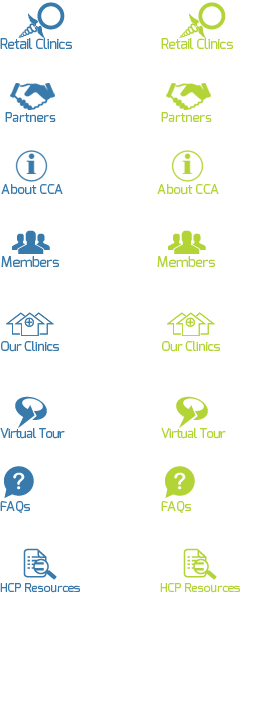
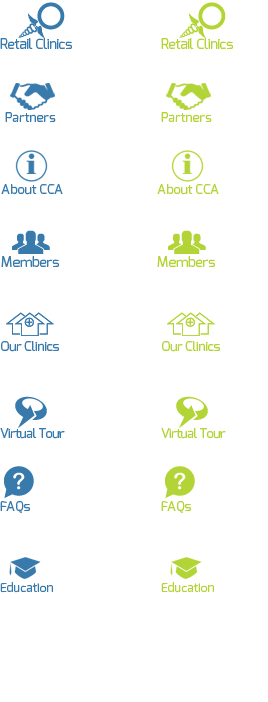
webinars to education

Changed region(s): [[0.0, 0.7778, 0.2985, 0.8675], [0.597, 0.7778, 0.8955, 0.8675]]

diff --git a/CCAMobileNewBuild/www/js/ajaxcalls.js b/CCAMobileNewBuild/www/js/ajaxcalls.js
@@ -77,7 +77,7 @@ function loadClinics(target){
     $("#faqsTab").removeClass("active");
     $("#aboutClinicsTab").removeClass("active");    
     $("#virtualTourTab").removeClass("active");
-    $("#webinarsTab").removeClass("active");
+    $("#educationTab").removeClass("active");
     
     $("#clinics_Map_Switch").removeAttr('checked');
     $("#clinics_List_Switch").removeAttr('checked');
@@ -276,7 +276,7 @@ function loadPartners(){
     $("#faqsTab").removeClass("active");
     $("#aboutClinicsTab").removeClass("active");    
     $("#virtualTourTab").removeClass("active");
-    $("#webinarsTab").removeClass("active");
+    $("#educationTab").removeClass("active");
     
     ajaxRequest("getPartners", "", loadPartnersResponseHandler);
 }
@@ -316,7 +316,7 @@ function loadAboutCCA(){
     $("#faqsTab").removeClass("active");
     $("#aboutClinicsTab").removeClass("active");    
     $("#virtualTourTab").removeClass("active");
-    $("#webinarsTab").removeClass("active");
+    $("#educationTab").removeClass("active");
     
     
     ajaxRequest("getAboutUs", "deviceAgent="+deviceAgent, loadAboutCCAResponseHandler);
@@ -365,7 +365,7 @@ function loadHomePageResponseHandler(loadHomePageResponse){
             $("#faqsTab").removeClass("active");
             $("#aboutClinicsTab").removeClass("active");    
             $("#virtualTourTab").removeClass("active");
-            $("#webinarsTab").removeClass("active");
+            $("#educationTab").removeClass("active");
             
             scrollToTop();
             refreshBodyScroll();
@@ -391,7 +391,7 @@ function loadAboutOurClinics(){
     $("#faqsTab").removeClass("active");
     $("#aboutClinicsTab").addClass("active");    
     $("#virtualTourTab").removeClass("active");
-    $("#webinarsTab").removeClass("active");
+    $("#educationTab").removeClass("active");
     
     ajaxRequest("getAboutOurClinics", "deviceAgent="+deviceAgent, loadAboutOurClinicsResponseHandler);
 }
@@ -429,7 +429,7 @@ function loadFAQs(){
     $("#faqsTab").addClass("active");
     $("#aboutClinicsTab").removeClass("active");    
     $("#virtualTourTab").removeClass("active");
-    $("#webinarsTab").removeClass("active");
+    $("#educationTab").removeClass("active");
     
     ajaxRequest("getFAQs", "deviceAgent="+deviceAgent, loadFAQsResponseHandler);
 }
@@ -475,7 +475,7 @@ function loadVirtualTour(){
     $("#faqsTab").removeClass("active");
     $("#aboutClinicsTab").removeClass("active");    
     $("#virtualTourTab").addClass("active");
-    $("#webinarsTab").removeClass("active");
+    $("#educationTab").removeClass("active");
     
     ajaxRequest("getVirtualTour", "deviceAgent="+deviceAgent, loadVirtualTourResponseHandler);
 }
@@ -539,9 +539,9 @@ function virtualTourImages(id){
 
 }
 
-/* Display Webinars Starts Here */
+/* Display educations Starts Here */
 
-function loadWebinars(){
+function loadEducation(){
     globalspace.searchClinicsKeyword="";
     $("#searchClinicsKeyword").val('');
     
@@ -552,14 +552,14 @@ function loadWebinars(){
     $("#faqsTab").removeClass("active");
     $("#aboutClinicsTab").removeClass("active");    
     $("#virtualTourTab").removeClass("active");
-    $("#webinarsTab").addClass("active");
+    $("#educationTab").addClass("active");
     
-    ajaxRequest("getWebinars", "deviceAgent="+deviceAgent, loadWebinarsResponseHandler);
+    ajaxRequest("getEducation", "deviceAgent="+deviceAgent, loadEducationResponseHandler);
 }
 
-function loadWebinarsResponseHandler(loadWebinarsResponse){
-    if(loadWebinarsResponse.status == "success"){       
-        my.utils.renderViewTo('Views/webinars.html', loadWebinarsResponse, 'mainContentDiv', function(data){
+function loadEducationResponseHandler(loadEducationResponse){
+    if(loadEducationResponse.status == "success"){       
+        my.utils.renderViewTo('Views/education.html', loadEducationResponse, 'mainContentDiv', function(data){
             $("#headerLogo").show();
             $("#backButton").hide();
             $("#clinicsSwitchDiv").hide();
@@ -570,8 +570,8 @@ function loadWebinarsResponseHandler(loadWebinarsResponse){
         });
     } else{
         hideLoadingIndicator();
-        ShowMessage('errorModal', 'Webinars', "<li class='error'>Unable to get webinars.</li>", true, false);
+        ShowMessage('errorModal', 'education', "<li class='error'>Unable to get education.</li>", true, false);
     }
 }
 
-/* Display Webinars Ends Here */
+/* Display education Ends Here */

diff --git a/CCAMobileNewBuild/www/css/stylesheet.css b/CCAMobileNewBuild/www/css/stylesheet.css
@@ -183,15 +183,19 @@ body {padding-left: 0px;padding-right:0px;background:#fff; font-family:exoregula
 .footer div.active a.aboutclinics img{ background:url(../images/footer_icons.png) no-repeat -147px -302px;}
 .footer div.active a.virtualtour img{ background:url(../images/footer_icons.png) no-repeat -150px -389px;}
 
-.footer div a.webinars img{ background:url(../images/footer_icons.png) no-repeat 0px -540px;}
-.footer div.active a.webinars img{ background:url(../images/footer_icons.png) no-repeat -160px -540px;}
+.footer div a.education img{ background:url(../images/footer_icons.png) no-repeat 18px -542px;}
+.footer div.active a.education img{ background:url(../images/footer_icons.png) no-repeat -143px -542px;}
 
-.webinar li{background-image: url("../images/cross_bullet.png");
+.education li{background-image: url("../images/cross_bullet.png");
     background-position: 0 6px;
     background-repeat: no-repeat;
     list-style: outside none none;
     margin: 10px 0 0;
-    padding: 0 0 6px 12px;font-size:18px;margin-top:10px}
+    color: #8daf15;
+    font-size: 12px;
+    padding: 0 0 6px 12px;margin-top:10px}
+.education a{color: #8daf15;}
+.education p{color: #1a466f;}
 
 /*.footer div a img{ width:62px; height:54px;}*/
 .footer div a img{ height:54px;width:90px; margin:auto;}

diff --git a/CCAMobileNewBuild/www/Views/education.html b/CCAMobileNewBuild/www/Views/education.html
@@ -1,4 +1,4 @@
-<div id="webinarsCCADiv" class="cca_continer" >
+<div id="educationCCADiv" class="cca_continer" >
     <div class="row-fluid">
         <div class="span12">
             <div class="padding20">
@@ -6,7 +6,7 @@
                 <div class="aboutus marginT7">
                     <div class="row-fluid">
                         <div class="span12">
-                            <div class="webinar">{{:data.introtext}}</div>
+                            <div class="education">{{:data.introtext}}</div>
                         </div>
                     </div>
                 </div>

diff --git a/CCAMobileNewBuild/www/ios.html b/CCAMobileNewBuild/www/ios.html
@@ -129,7 +129,7 @@
             <div id="aboutCCATab"><a href="#" class="aboutcca" onclick="loadAboutCCA();"><img src="images/spacer.png" /></a></div>
             <div id="partnersTab"><a href="#" class="partners" onclick="loadPartners()"><img src="images/spacer.png" /></a></div>
      
-            <div id="webinarsTab"><a href="#" class="webinars" onclick="loadWebinars();"><img src="images/spacer.png" /></a></div>
+            <div id="educationTab"><a href="#" class="education" onclick="loadEducation();"><img src="images/spacer.png" /></a></div>
 </div>
 
 </div>

diff --git a/CCAMobileNewBuild/www/android.html b/CCAMobileNewBuild/www/android.html
@@ -127,7 +127,7 @@
     <div id="aboutCCATab"><a href="#" class="aboutcca" onclick="loadAboutCCA();"><img src="images/spacer.png" /></a></div>
     <div id="partnersTab"><a href="#" class="partners" onclick="loadPartners()"><img src="images/spacer.png" /></a></div>
     
-    <div id="webinarsTab"><a href="#" class="webinars" onclick="loadWebinars();"><img src="images/spacer.png" /></a></div>
+    <div id="educationTab"><a href="#" class="education" onclick="loadEducation();"><img src="images/spacer.png" /></a></div>
             
 </div>
 </div>

diff --git a/CCAMobileNewBuild/www/js/common.js b/CCAMobileNewBuild/www/js/common.js
@@ -1,5 +1,8 @@
-var serverURL = "http://ccaclinics.org/index.php/";
-var site_base_ur = "http://ccaclinics.org/";
+//var serverURL = "http://ccaclinics.org/index.php/";
+//var site_base_ur = "http://ccaclinics.org/";
+
+var serverURL = "http://10.10.73.62:8081/index.php/";
+var site_base_ur = "http://10.10.73.62:8081/";
 
 function ajaxRequest(requestURL,queryString,callback){	
     if (deviceAgent != "PC" && (navigator.connection.type == Connection.UNKNOWN || navigator.connection.type == Connection.NONE)) {
